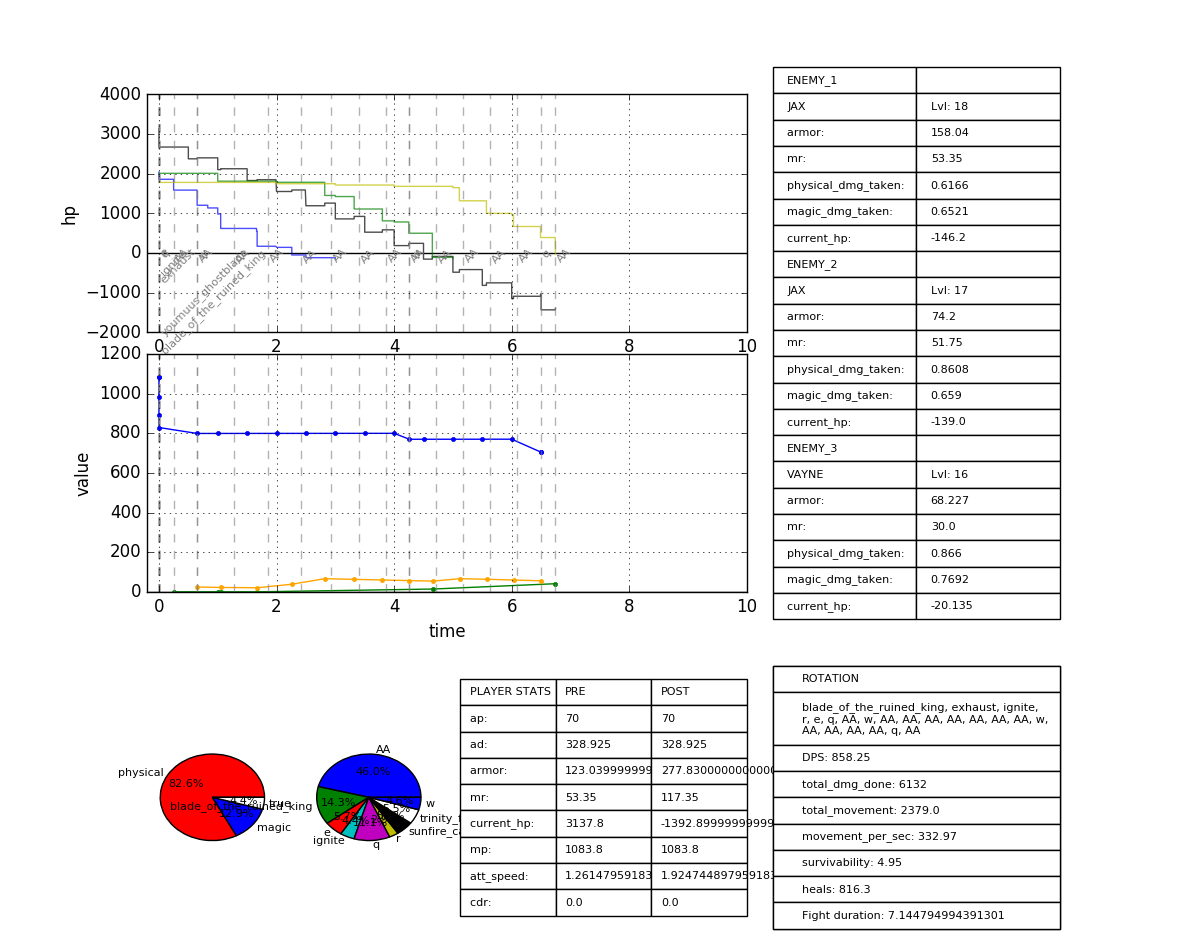
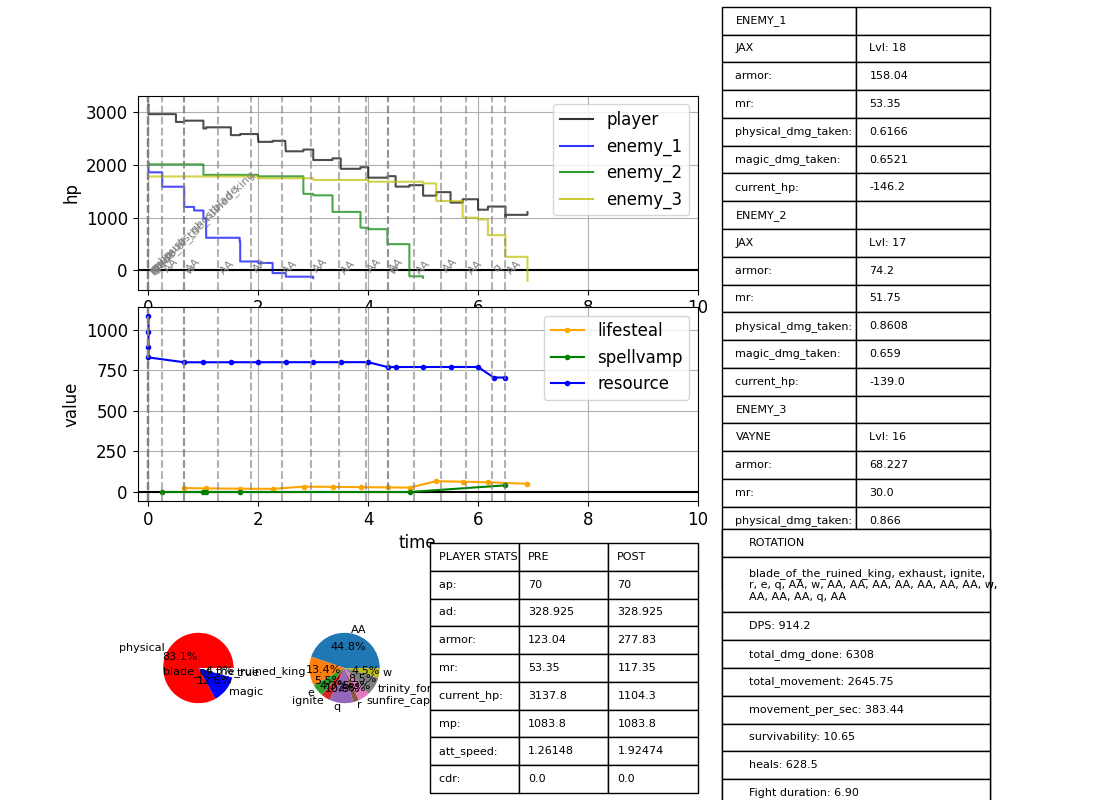
CHG: polished slightly (minor graph improvements)

Changed region(s): [[0.0309, 0.0, 0.9273, 1.0]]

diff --git a/abilities.py b/abilities.py
@@ -277,7 +277,7 @@ class EnemiesDmgToPlayer(EventsGeneral):
     """
 
     DPS_BY_ENEMIES_DMG_BASE = _DPS_BY_ENEMIES_DMG_BASE
-    DPS_ENHANCER_COEF = 2   # (used to make player take dmg of e.g. 2 enemies)
+    DPS_ENHANCER_COEF = 1   # (used to make player take dmg of e.g. 2 enemies)
 
     FLAT_SURVIVABILITY_FACTORS = dict(
         flash=1
@@ -3600,7 +3600,6 @@ class VisualRepresentation(Presets):
             plt.axvline(x=x_var, color='grey', linestyle='dashed', alpha=0.6)
 
     def subplot_dmg_graph(self, subplot_obj):
-
         subplot_obj.grid(b=True)
 
         # Line at y=0, and at x=0.
@@ -3649,9 +3648,9 @@ class VisualRepresentation(Presets):
             color_counter_var += 1
 
         self.add_actions_on_plot(subplot_obj=subplot_obj, annotated=True)
+        plt.legend()
 
     def subplot_resource_vamp_lifesteal_graph(self, subplot_obj):
-
         subplot_obj.grid(b=True)
 
         # Line at y=0.
@@ -3663,10 +3662,6 @@ class VisualRepresentation(Presets):
 
         # LIFESTEAL, SPELLVAMP, RESOURCE
         stat_color_map = {'lifesteal': 'orange', 'spellvamp': 'g', 'resource': 'b'}
-
-        # Places initial value of resource.
-        subplot_obj.plot([0], self.request_stat(target_name='player', stat_name=self.RESOURCE_USED),
-                         color=stat_color_map['resource'], marker='.')
 
         for examined in stat_color_map:
 
@@ -3686,6 +3681,7 @@ class VisualRepresentation(Presets):
             subplot_obj.plot(x_val, y_val, color=stat_color_map[examined], marker='.', label=examined)
 
         self.add_actions_on_plot(subplot_obj=subplot_obj, annotated=False)
+        plt.legend()
 
     def player_stats_table(self):
         table_lst = [self.PLAYER_STATS_HEADERS, ]
@@ -3694,10 +3690,10 @@ class VisualRepresentation(Presets):
         for stat_name in self.PLAYER_STATS_DISPLAYED:
 
             precombat_value = self.combat_results['player']['pre_combat_stats'][stat_name]
-            precombat_value = precombat_value
+            precombat_value = round(precombat_value, 5)
 
             postcombat_value = self.combat_results['player']['post_combat_stats'][stat_name]
-            postcombat_value = postcombat_value
+            postcombat_value = round(postcombat_value, 5)
 
             line_tpl = (stat_name+': ', precombat_value, postcombat_value)
 
@@ -3709,9 +3705,7 @@ class VisualRepresentation(Presets):
     def subplot_player_stats_table(self, subplot_obj):
         """
         Subplots player's pre and post combat stats.
-
         Stat values are rounded.
-
         :returns: (None)
         """
 
@@ -3813,7 +3807,7 @@ class VisualRepresentation(Presets):
             metric_str = '{}: {}'.format(metric_name, val)
             table_lst.append((metric_str, ))
 
-        combat_duration_str = 'Fight duration: {}'.format(self.combat_duration)
+        combat_duration_str = 'Fight duration: {:.2f}'.format(self.combat_duration)
         table_lst.append((combat_duration_str,))
 
         return table_lst
@@ -3868,6 +3862,5 @@ class VisualRepresentation(Presets):
         os.remove(self.temp_combat_results_image_path)
 
     def represent_results_visually(self):
-
         self._create_results_visual_representation()
         plt.show()

diff --git a/functional_testing/full_tests.py b/functional_testing/full_tests.py
@@ -21,9 +21,7 @@ def _combat_loop_instance(data_dct):
     :return:
     """
     user_instance = user_instance_settings.UserSession()
-
     combat_instance = user_instance.instance_after_combat(data_dct)
-
     return combat_instance
 
 
@@ -36,9 +34,7 @@ def _single_user_multiple_combats_instances_lst(repetitions):
     """
 
     data = default_config.ALL_DATA
-
     combat_instances_lst = []
-
     user_instance = user_instance_settings.UserSession()
 
     for i in range(repetitions):
@@ -60,9 +56,7 @@ def _multiprocessed_single_user_multiple_combats(repetitions):
     """
 
     data = default_config.ALL_DATA
-
     processes_lst = []
-
     user_instance = user_instance_settings.UserSession()
 
     for i in range(repetitions):
@@ -86,9 +80,7 @@ def _single_combat_multiple_users_instances_lst(repetitions):
     :param repetitions: (int)
     :return: (list) List of instances.
     """
-
     data = default_config.ALL_DATA
-
     combat_instances_lst = []
 
     for i in range(repetitions):
@@ -437,7 +429,7 @@ if __name__ == '__main__':
         inst = AllFunctionalTests().naked_combat_and_results(rotation_lst=['AA'], all_champs_lvls=1)
 
     # RUN DURATION
-    if 1:
+    if 0:
         test_run_time(repetitions=50, sort_by='tottime', count_of_shown_functions=20)
 
     # CONSISTENCY
@@ -447,7 +439,7 @@ if __name__ == '__main__':
         AllFunctionalTests().display_single_user_multi_combats_differences(repetitions=reps)
         AllFunctionalTests().display_multi_users_differences(repetitions=reps)
     # Different runs:
-    if 1:
+    if 0:
         reps = 10
         AllFunctionalTests().multiple_runs_output_comparison(repetitions=reps)
 
